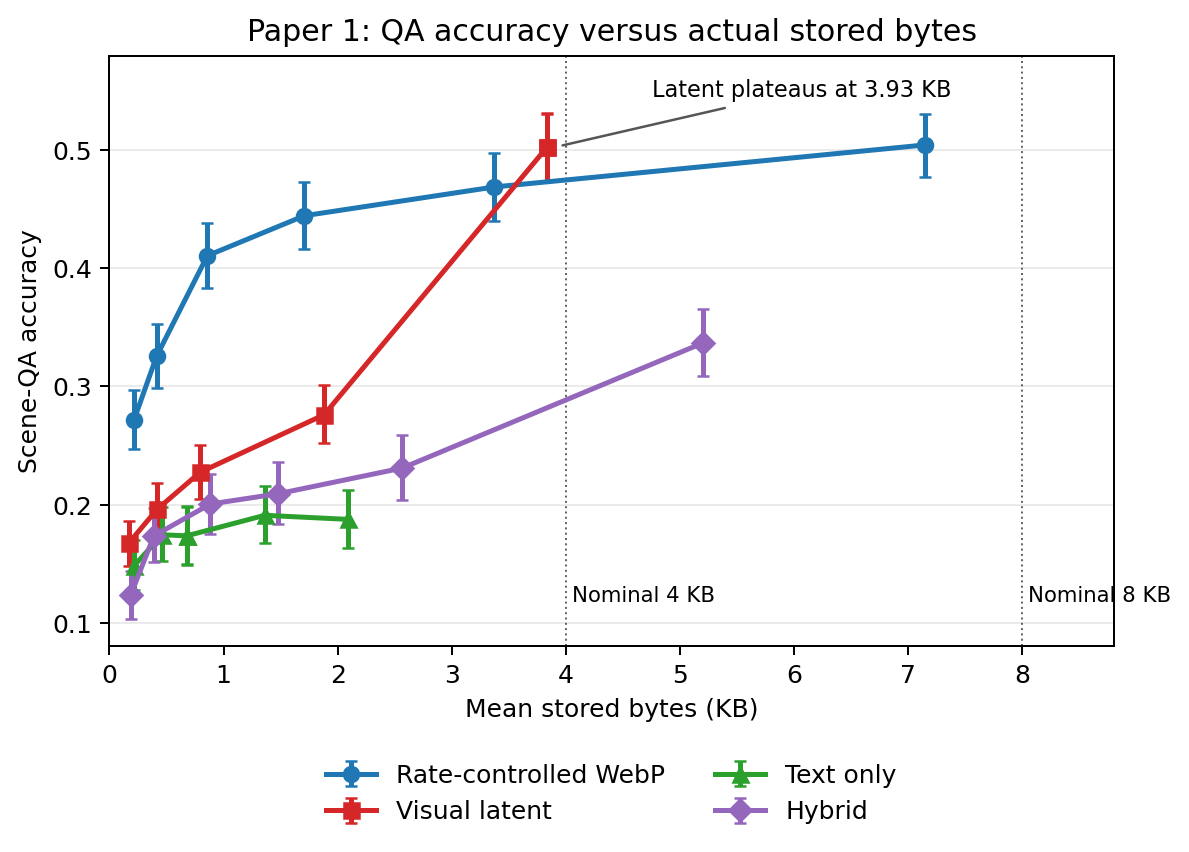
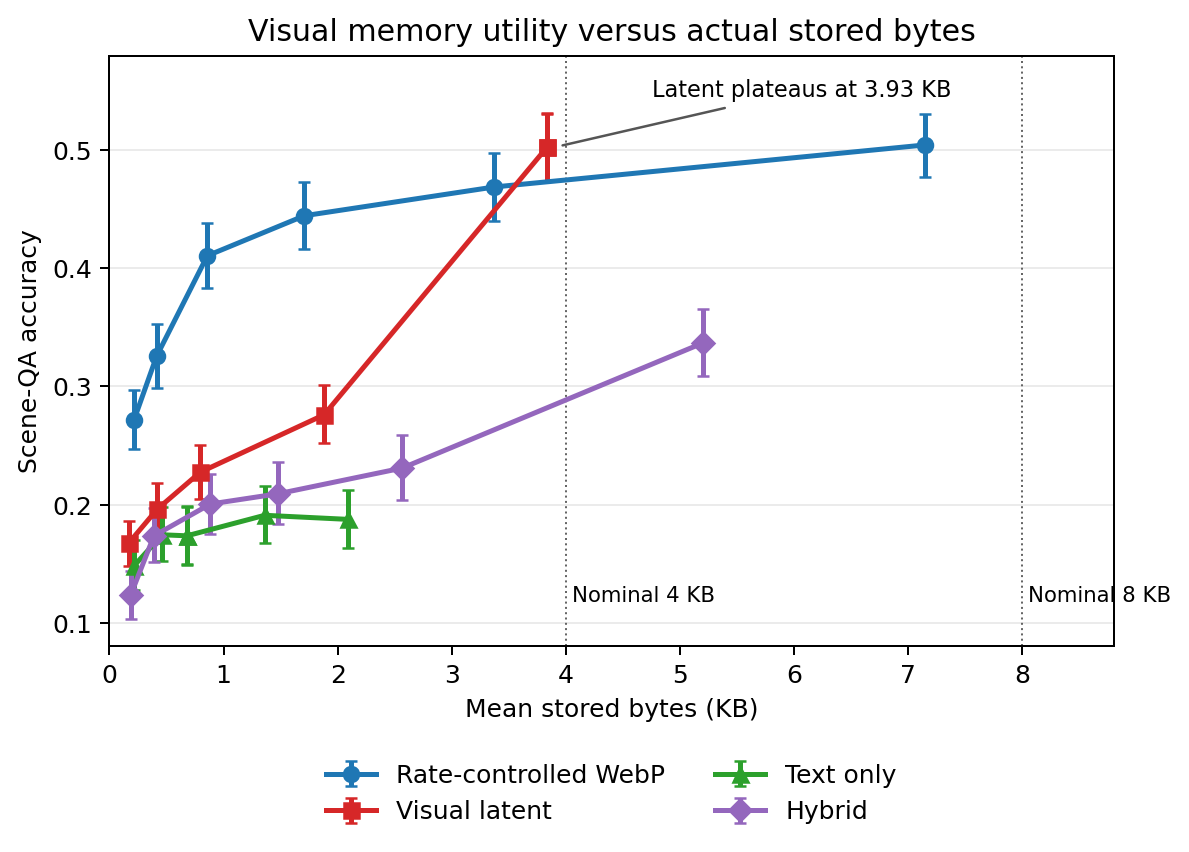
Polish public research homepage

Changed region(s): [[0.2178, 0.0, 0.8091, 0.061]]

diff --git a/scripts/generate_release_artifacts.py b/scripts/generate_release_artifacts.py
@@ -1,5 +1,5 @@
 #!/usr/bin/env python3
-"""Generate the Paper 1 release figure from frozen, tracked result tables."""
+"""Generate the public release figure from frozen, tracked result tables."""
 from __future__ import annotations
 
 import csv
@@ -15,7 +15,8 @@ import matplotlib.pyplot as plt
 
 ROOT = Path(__file__).resolve().parents[1]
 INPUT = ROOT / "results" / "formal_benchmark" / "canonical_n288" / "aggregate_metrics.csv"
-OUTPUT = ROOT / "paper_assets" / "figure_1_rate_qa.png"
+PNG_OUTPUT = ROOT / "paper_assets" / "figure_1_rate_qa.png"
+SVG_OUTPUT = ROOT / "paper_assets" / "figure_1_rate_qa.svg"
 
 METHODS = {
     "webp": ("Rate-controlled WebP", "#1f77b4", "o"),
@@ -24,7 +25,7 @@ METHODS = {
     "hybrid_text_visual_latent": ("Hybrid", "#9467bd", "D"),
 }
 
-matplotlib.rcParams["svg.hashsalt"] = "paper1-release"
+matplotlib.rcParams["svg.hashsalt"] = "visual-memory-codec-release"
 
 
 def number(value: str) -> float | None:
@@ -62,7 +63,7 @@ def main() -> None:
     axis.text(8.05, 0.115, "Nominal 8 KB", fontsize=8.5, va="bottom")
     axis.annotate("Latent plateaus at 3.93 KB", (3.928, 0.503), xytext=(4.75, 0.545),
                   arrowprops={"arrowstyle": "-", "color": "#555555"}, fontsize=9)
-    axis.set_title("Paper 1: QA accuracy versus actual stored bytes")
+    axis.set_title("Visual memory utility versus actual stored bytes")
     axis.set_xlabel("Mean stored bytes (KB)")
     axis.set_ylabel("Scene-QA accuracy")
     axis.set_xlim(0, 8.8)
@@ -70,8 +71,9 @@ def main() -> None:
     axis.grid(axis="y", alpha=0.25)
     axis.legend(frameon=False, ncol=2, loc="upper center", bbox_to_anchor=(0.5, -0.16))
     fig.subplots_adjust(bottom=0.25, top=0.92)
-    OUTPUT.parent.mkdir(parents=True, exist_ok=True)
-    fig.savefig(OUTPUT, format="png", dpi=180, bbox_inches="tight")
+    PNG_OUTPUT.parent.mkdir(parents=True, exist_ok=True)
+    fig.savefig(PNG_OUTPUT, format="png", dpi=180, bbox_inches="tight")
+    fig.savefig(SVG_OUTPUT, format="svg", bbox_inches="tight")
 
 
 if __name__ == "__main__":

diff --git a/README.md b/README.md
@@ -1,127 +1,151 @@
+<div align="center">
+
+<img src="paper_assets/visual_memory_codec_mark.svg" alt="Visual Memory Codec mark" width="72" />
+
 # Visual Memory Codec
 
-> **Persistent visual memory, compared at the same stored-byte budget.**
+### What should a multimodal system remember when every stored byte counts?
 
-Visual Memory Codec asks a practical question for multimodal systems: after an
-image must be stored as a compact memory, which representation preserves the
-information a vision-language model can still use? Paper 1 is a frozen,
-natural-image benchmark comparing text-only memory, visual latent memory,
-hybrid memory, and rate-controlled WebP under exact byte accounting.
+*A frozen benchmark of compact visual memories, evaluated by the information a vision–language model can recover—not by pixel similarity alone.*
 
-| Explore | Verify | Reproduce |
+[**Teaser**](#the-result-at-a-glance) · [**Frozen results**](results/formal_benchmark/README.md) · [**Key-results CSV**](paper_assets/table_1_key_results.csv) · [**Reproduce the figure**](#inspect-or-reproduce)
+
+</div>
+
+Visual Memory Codec asks a concrete systems question: after an image becomes a
+small persistent memory, which representation preserves the information needed
+for downstream visual question answering? The frozen N=288 study compares
+text-only, visual-latent, hybrid, and rate-controlled WebP memories under
+exact per-image byte accounting.
+
+> [!TIP]
+> **Key takeaways**
+>
+> - The benchmark asks which compact memory leaves a vision–language model
+>   best able to answer questions about an image under an explicit byte budget.
+> - At the nominal **4 KB** arm, visual latent memory exceeds WebP by **+0.034
+>   scene-QA** (paired 95% CI **[+0.009, +0.059]**) under the canonical evaluator.
+> - The effect is modest and evaluator-sensitive: it is not strict
+>   evaluator-robust, and it disappears at 8 KB as the latent memory underfills
+>   the cap and plateaus at 3.93 KB.
+
+## The result at a glance
+
+![Teaser diagram: text, visual latent, hybrid, and WebP memories are compared at fixed storage budgets by downstream QA. At 4 KB latent is +0.034 QA over WebP; at 8 KB it plateaus at 3.93 KB while WebP reaches 0.504 QA.](paper_assets/teaser_memory_utility.svg)
+
+*Visual summary. All representations are evaluated by downstream QA under
+stored-byte caps. The stated contrasts and actual rates are taken directly from
+the frozen aggregate and paired-comparison tables.*
+
+<details>
+<summary>Show the full rate–QA figure</summary>
+
+![Rate–QA curve comparing visual latent memory and WebP. Latent has a positive 4 KB contrast, then plateaus while WebP continues to improve.](paper_assets/figure_1_rate_qa.png)
+
+*Figure 1. Scene-QA accuracy versus **actual mean stored bytes**. Error bars
+are 95% image-bootstrap intervals; vertical guides mark nominal 4 KB and 8 KB
+arms. The x-axis uses actual bytes throughout, not a nominal budget label.*
+
+</details>
+
+| Frozen finding | Evidence | Scope-correct interpretation |
 |:--|:--|:--|
-| [Main figure](#main-figure) | [Key results](paper_assets/table_1_key_results.csv) | [Figure generator](scripts/generate_paper1_release_artifacts.py) |
-| [Formal analysis](docs/formal_n288_analysis.md) | [Frozen protocol](docs/robustness_protocol.md) | [Result bundle](results/formal_benchmark/README.md) |
+| **4 KB canonical contrast** | Latent: 0.503 QA at 3,928 B; WebP: 0.469 at 3,452 B | Positive paired contrast (+0.034, 95% CI [+0.009, +0.059]); actual rates are not identical. |
+| **8 KB plateau check** | Latent stays at 3,928 B / 0.503; WebP reaches 7,320 B / 0.504 | No latent advantage at this arm; latent underfills its cap rather than reaching a higher ceiling. |
+| **Second evaluator (Control A)** | 4 KB contrast: +0.0217, CI [0.0000, +0.0425] | Direction remains positive, but the strict evaluator-robustness rule is **not met** because the interval touches zero. |
+| **Text encoder (Control B)** | Frozen N=144 subset, Qwen2.5-VL-7B text encoder | No paired confidence interval excludes zero: no clear encoder-capacity effect. |
 
-## Why this project matters
+The compact [machine-readable result table](paper_assets/table_1_key_results.csv)
+contains these predeclared contrasts and control summaries.
 
-Many visual-memory systems compare representations by nominal size or image
-quality alone. This benchmark instead measures what a fixed evaluator can
-recover from the stored representation, while recording the actual bytes used
-for every image and method. That makes the tradeoff between compressed visual
-state and downstream question answering explicit.
+## Why this benchmark
 
-## Main takeaway
+Visual-memory methods are often compared by nominal file size or image quality.
+That does not directly answer whether a downstream model can use the stored
+state. This benchmark measures question-answering recovery from the memory
+representation while recording the actual bytes consumed for every image and
+method.
 
-> [!NOTE]
-> In the frozen N=288 benchmark, visual latent memory beat rate-controlled
-> WebP at the nominal 4 KB arm (+0.034 paired scene-QA; 95% CI
-> [+0.009, +0.059]). At the nominal 8 KB arm, that advantage disappeared:
-> latent underfilled the cap and plateaued at 3.93 KB.
+The aim is not to crown a universally better image codec. It is to make the
+trade-off between compact representation and usable visual information
+measurable under one explicit, reproducible protocol.
 
-## Main figure
-
-![Paper 1 rate–QA curve: visual latent memory has a positive 4 KB contrast with WebP, then plateaus while WebP continues to improve.](paper_assets/figure_1_rate_qa.png)
-
-*Figure 1. Scene-QA accuracy versus actual mean stored bytes. Error bars are
-95% image-bootstrap intervals. The vertical guides denote nominal 4 KB and
-8 KB arms; the plotted x-axis always uses actual stored bytes.*
-
-## Key takeaways
-
-- **4 KB:** latent reaches 0.503 QA at 3,928 mean bytes; WebP reaches 0.469
-  at 3,452 bytes. The paired latent − WebP difference is +0.034
-  ([+0.009, +0.059]).
-- **8 KB:** latent remains at 3,928 bytes and 0.503 QA, while WebP reaches
-  7,320 bytes and 0.504 QA. The paired difference is −0.002
-  ([−0.024, +0.021]).
-- **Text and hybrid:** neither matches WebP at the reported 4 KB or 8 KB
-  arms in the canonical benchmark.
-- **Interpretation:** the 4 KB result is a canonical measurement, not a claim
-  of perfectly equal actual rate or a general ranking of image codecs.
-
-## What Paper 1 studied
+## What the frozen study covers
 
 | Component | Frozen design |
 |:--|:--|
-| Images and questions | 288 GQA/Visual Genome images; 1,152 frozen questions across six functional groups |
-| Representations | Text only, visual latent, hybrid, rate-controlled WebP; AVIF where feasible; unbudgeted raw-image oracle |
-| Budgets | 256 B, 512 B, 1 KB, 2 KB, 4 KB, and 8 KB nominal caps with actual stored-byte accounting |
+| Benchmark | 288 GQA/Visual Genome images; 1,152 questions across six functional groups |
+| Memories | Text only, visual latent, hybrid, rate-controlled WebP; AVIF where feasible; unbudgeted raw-image oracle |
+| Nominal caps | 256 B, 512 B, 1 KB, 2 KB, 4 KB, and 8 KB—with actual stored-byte accounting |
 | Primary inference | 10,000-resample paired image bootstrap for method contrasts |
[1 lines of base64/hex data omitted]
 
-The full methodological record is in the [formal analysis](docs/formal_n288_analysis.md)
-and [frozen robustness protocol](docs/robustness_protocol.md).
-
 ## Main findings
 
-| Comparison | Result | What it supports |
-|:--|:--|:--|
-| Latent − WebP at nominal 4 KB | +0.034, 95% CI [+0.009, +0.059] | Positive canonical contrast under the original evaluator |
-| Latent − WebP at nominal 8 KB | −0.002, 95% CI [−0.024, +0.021] | No higher 8 KB QA ceiling for latent; it underfills and plateaus |
-| Raw-image oracle | 0.539 QA | An evaluator/manifest reference point, not a human-fidelity ceiling |
+- **At nominal 4 KB**, visual latent memory has the positive canonical
+  latent-minus-WebP contrast above. Text-only and hybrid memories do not match
+  WebP at the reported 4 KB or 8 KB arms.
+- **At nominal 8 KB**, latent remains at 3,928 mean bytes and 0.503 QA, while
+  WebP reaches 7,320 bytes and 0.504 QA. The paired difference is −0.002
+  (95% CI [−0.024, +0.021]).
+- **The raw-image oracle is 0.539 QA** under the canonical evaluator. It is a
+  reference point for this evaluator and manifest, not a human-perceived
+  fidelity ceiling.
 
-The compact [key-results table](paper_assets/table_1_key_results.csv) is the
-machine-readable summary. The canonical
-[aggregate table](results/formal_benchmark/canonical_n288/aggregate_metrics.csv)
-and [per-scene table](results/formal_benchmark/canonical_n288/per_scene_metrics.csv)
-support inspection of the frozen measurement.
+For the complete analysis, including functional-group results and the
+predeclared comparisons, see the [formal N=288 analysis](docs/formal_n288_analysis.md).
 
 ## Robustness controls
 
-| Control | Frozen change | Result |
+Two controls were specified before execution; neither changes the frozen
+canonical benchmark.
+
+| Control | Only intentional change | Result |
 |:--|:--|:--|
-| **A — evaluator** | Re-evaluate the same latent, WebP, and raw-oracle artifacts with Qwen2.5-VL-7B | 4 KB direction remains positive (+0.0217), but CI [0.0000, +0.0425] touches zero. The strict evaluator-robustness rule is **not met**. |
-| **B — text encoder** | Replace only the text encoder with Qwen2.5-VL-7B on a deterministic N=144 subset | No paired 95% CI excludes zero at any cap. No clear text-encoder-capacity effect; this does not test the latent-versus-WebP contrast. |
+| **A — evaluator robustness** | Re-evaluate the exact latent, WebP, and raw-oracle artifacts with Qwen2.5-VL-7B | Positive 4 KB point estimate, but CI touches zero; the frozen strict evaluator-robustness criterion is not satisfied. See the [evaluator report](docs/evaluator_robustness.md). |
+| **B — text-encoder capacity** | Replace only the text encoder with Qwen2.5-VL-7B on a deterministic balanced N=144 subset | No clear capacity effect. This control does **not** test, strengthen, or overturn the latent-versus-WebP contrast. See the [text-encoder report](docs/text_encoder_robustness.md). |
 
-Read the [evaluator report](docs/evaluator_robustness.md) and
-[text-encoder report](docs/text_encoder_robustness.md) for the complete,
-predeclared interpretations.
+The [frozen robustness protocol](docs/robustness_protocol.md) records the
+decision rules and guardrails used for both controls.
 
-## Limitations
+## Limits on interpretation
 
-- Results are specific to this frozen GQA/Visual Genome manifest and VLM
-  evaluation pipeline; they are not claims about general human-perceived image
-  fidelity.
+- These measurements are specific to the frozen GQA/Visual Genome manifest and
+  vision–language evaluation pipeline; they are **not** claims about general
+  human-perceived image fidelity.
+- Nominal budget arms can have different actual rates. At 4 KB, the latent
+  representation uses 476 more mean bytes than WebP; at 8 KB it is a
+  lower-rate plateau.
 - The raw-image oracle is 0.539 QA under the canonical evaluator and 0.507
-  under Control A, which bounds absolute interpretation of the reported scores.
-- Actual stored rates differ within nominal-budget arms. In particular, the
-  latent 4 KB result uses 476 more mean bytes than WebP, while the 8 KB latent
-  result remains at 3,928 bytes.
-- Control A checks a second evaluator within the Qwen2.5-VL family; it is not
-  cross-family evaluator independence.
+  under Control A, limiting absolute interpretation of every reported score.
+- Control A uses a second evaluator in the Qwen2.5-VL family, not an
+  independent evaluator family.
 
-## Repository structure
+## Repository guide
 
 ```text
-paper_assets/                 Main figure and compact key-results table
-configs/                      Frozen benchmark and control configurations
-docs/                         Analysis, limitations, and robustness reports
-results/formal_benchmark/     Protocols, provenance, and curated result tables
+paper_assets/                 Main figure and compact key-results CSV
+configs/                      Frozen benchmark and robustness configurations
+docs/                         Analysis, protocol, robustness reports, limitations
+results/formal_benchmark/     Curated tables and platform-independent provenance
 scripts/                      Benchmark entry points and figure generator
 src/visual_memory_benchmark/  Reusable benchmark implementation
 ```
 
-## Reproduce or inspect
+Start with the [frozen results bundle](results/formal_benchmark/README.md) for
+the manifest, curated outputs, and provenance pointers.
 
-The Paper 1 results are frozen. The release includes the code and compact
-tables needed to inspect them; raw source images, model weights, encoded
-payloads, and execution environments are intentionally not redistributed.
+## Inspect or reproduce
 
-Regenerate the tracked main figure from the frozen aggregate table:
+The results are frozen. This release includes the code, configurations, figure
+generator, and compact tables necessary to inspect the published measurements.
+Raw source images, model weights, encoded payloads, and execution environments
+are intentionally not redistributed.
+
+Regenerate the tracked figure from the frozen canonical aggregate table:
 
 ```bash
-PYTHONPATH=src python3 scripts/generate_paper1_release_artifacts.py
+PYTHONPATH=src python3 scripts/generate_release_artifacts.py
 ```
 
 Run the lightweight synthetic regression benchmark:
@@ -130,6 +154,7 @@ Run the lightweight synthetic regression benchmark:
 PYTHONPATH=src python3 -m visual_memory_benchmark.run --config configs/synthetic_baseline.json
 ```
 
-For the complete frozen record, start with the [results bundle](results/formal_benchmark/README.md).
+For the full record, read the [formal analysis](docs/formal_n288_analysis.md),
+[frozen protocol](docs/robustness_protocol.md), and [result bundle](results/formal_benchmark/README.md).
 Credentials, model caches, raw images, remote execution state, local research
 notes, and temporary outputs remain deliberately untracked.

diff --git a/paper_assets/README.md b/paper_assets/README.md
@@ -1,8 +1,8 @@
-# Paper 1 release assets
+# Release assets
 
 `figure_1_rate_qa.png` is the main rate–QA figure. It is generated from the
 frozen canonical aggregate table by
-`scripts/generate_paper1_release_artifacts.py`.
+`scripts/generate_release_artifacts.py`.
 
 `table_1_key_results.csv` is a compact machine-readable transcription of the
 predeclared main comparison and the two completed robustness controls. The

diff --git a/results/formal_benchmark/README.md b/results/formal_benchmark/README.md
@@ -1,4 +1,4 @@
-# Paper 1 frozen results bundle
+# Frozen results bundle
 
 This directory is the tracked, platform-independent record for the formal
 benchmark. It intentionally excludes raw images, reconstruction payloads,
